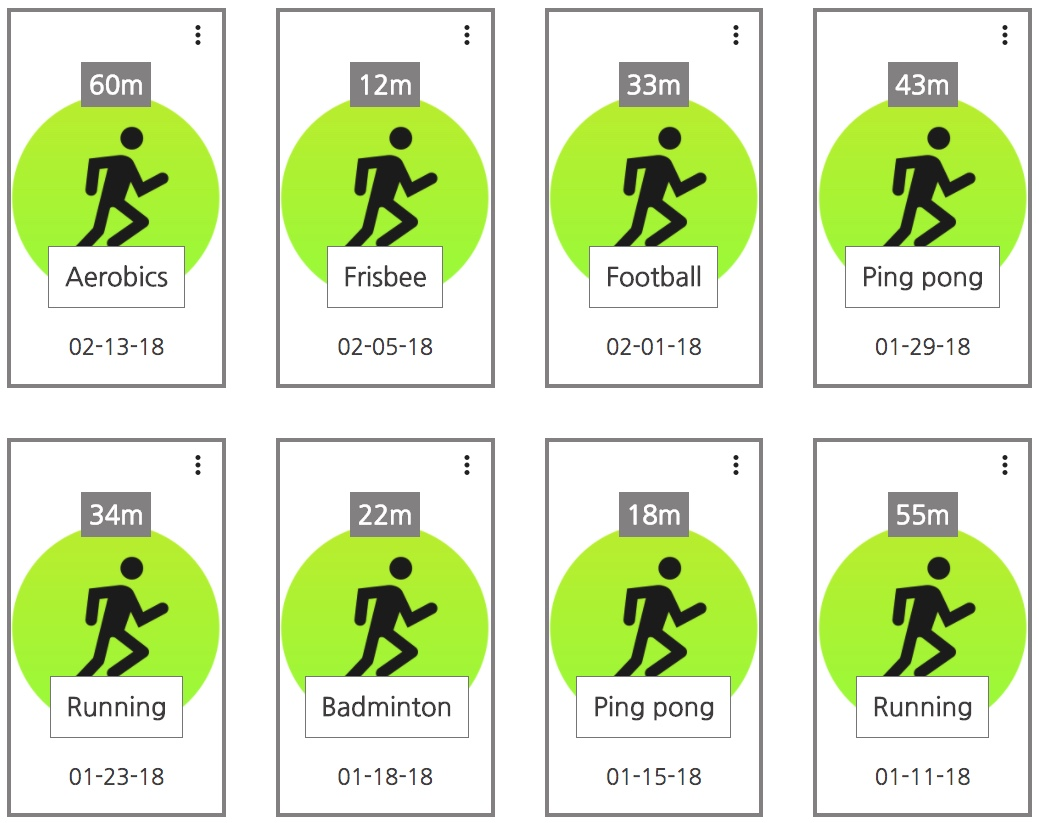
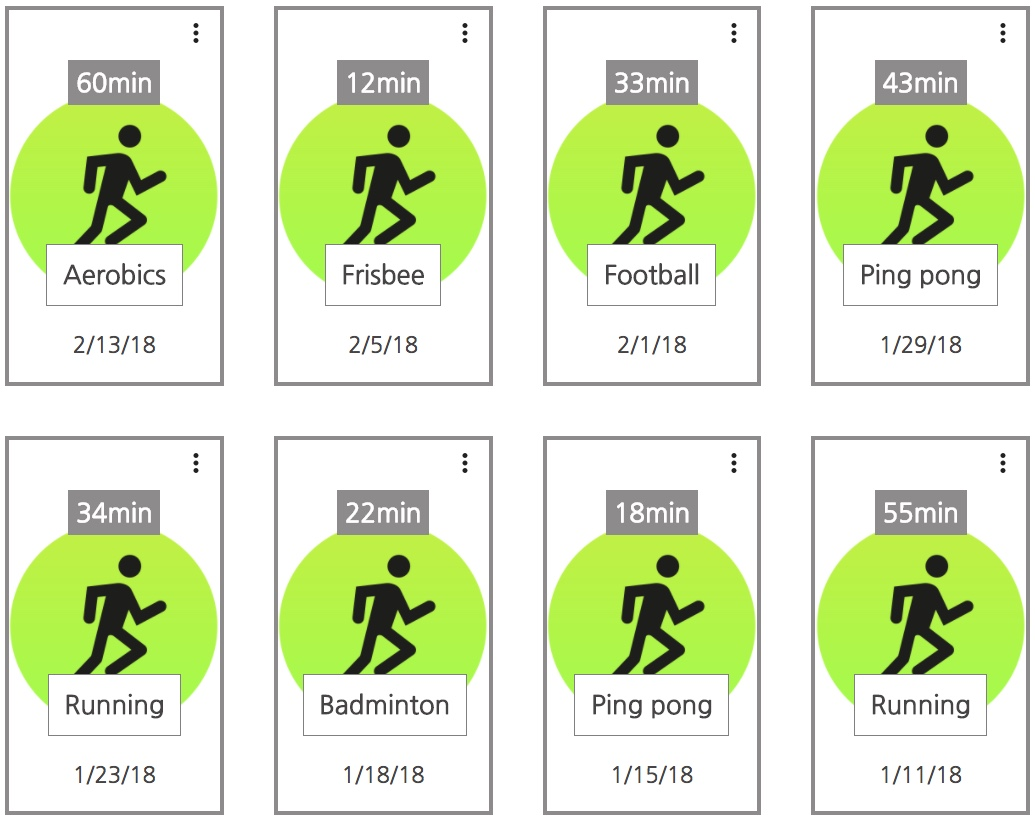
Minor fixes to styling

diff --git a/src/containers/ExerciseLog/index.js b/src/containers/ExerciseLog/index.js
@@ -65,11 +65,12 @@ export class ExerciseLog extends React.Component {
     function capitalizeFirstLetter(string) {
       return string.charAt(0).toUpperCase() + string.slice(1);
     };
-    const exerciseLog  = this.props.exerciseLog.map((exercise, index) => {
+    const exerciseLog = this.props.exerciseLog.map((exercise, index) => {
       const capitalActivity = capitalizeFirstLetter(exercise.activity);
+
       return (
         <div className="exercise-card" key={index}>
-          <h3 className="duration">{exercise.duration}m</h3>
+          <h3 className="duration">{exercise.duration}min</h3>
           <div className='dot-menu'>
             <IconMenu
               iconButtonElement={<IconButton><MoreVertIcon /></IconButton>}
@@ -89,7 +90,7 @@ export class ExerciseLog extends React.Component {
               </IconMenu>
             </div>
             <h3 className="activity-title">{capitalActivity}</h3>
-            <p className="date"><Moment format="MM-DD-YY">{exercise.date}</Moment></p>
+            <p className="date"><Moment format="M/D/YY">{exercise.date}</Moment></p>
           </div>
         )
       });

diff --git a/src/containers/Home/index.js b/src/containers/Home/index.js
@@ -80,7 +80,7 @@ export class Home extends React.Component {
         <section id='how-it-works' className={this.state.showTopAnimation ? 'showTopAnimation' : 'noShowTopAnimation'}>
           <div className="home-blurb">
             <h2 className="section-title">Reap the Benefits</h2>
-            <p className="home-paragraph">We all know that regular exercise is difficult, and without structure and determination it's tough to stay on schedule.  With <span>HEART<strong>STRONG</strong></span> log your exercise and analyze your activity patterns.</p>
+            <p className="home-paragraph">We all know that regular exercise is difficult and without structure and determination it's tough to stay on schedule.  With <span>HEART<strong>STRONG</strong></span>, you can log your exercise and analyze your activity patterns.</p>
           </div>
           <div className="image">
             <img src={exercise} alt='exercise'/>

diff --git a/src/components/nav-bar/nav-bar.css b/src/components/nav-bar/nav-bar.css
@@ -17,12 +17,12 @@
 .nav-links {
   display: inline-block;
   padding: 20px;
-  color: gray;
+  color: #666565;
   cursor: pointer;
 }
 
 .nav-links a {
-  color: gray;
+  color: #666565;
 }
 
 .nav-links a:hover {

diff --git a/src/components/footer/footer.css b/src/components/footer/footer.css
@@ -1,7 +1,7 @@
 .App-footer {
   width: 100%;
   padding: 20px;
-  background-color: gray;
+  background-color: lightgray;
   position: absolute;
   bottom: 0;
 }
